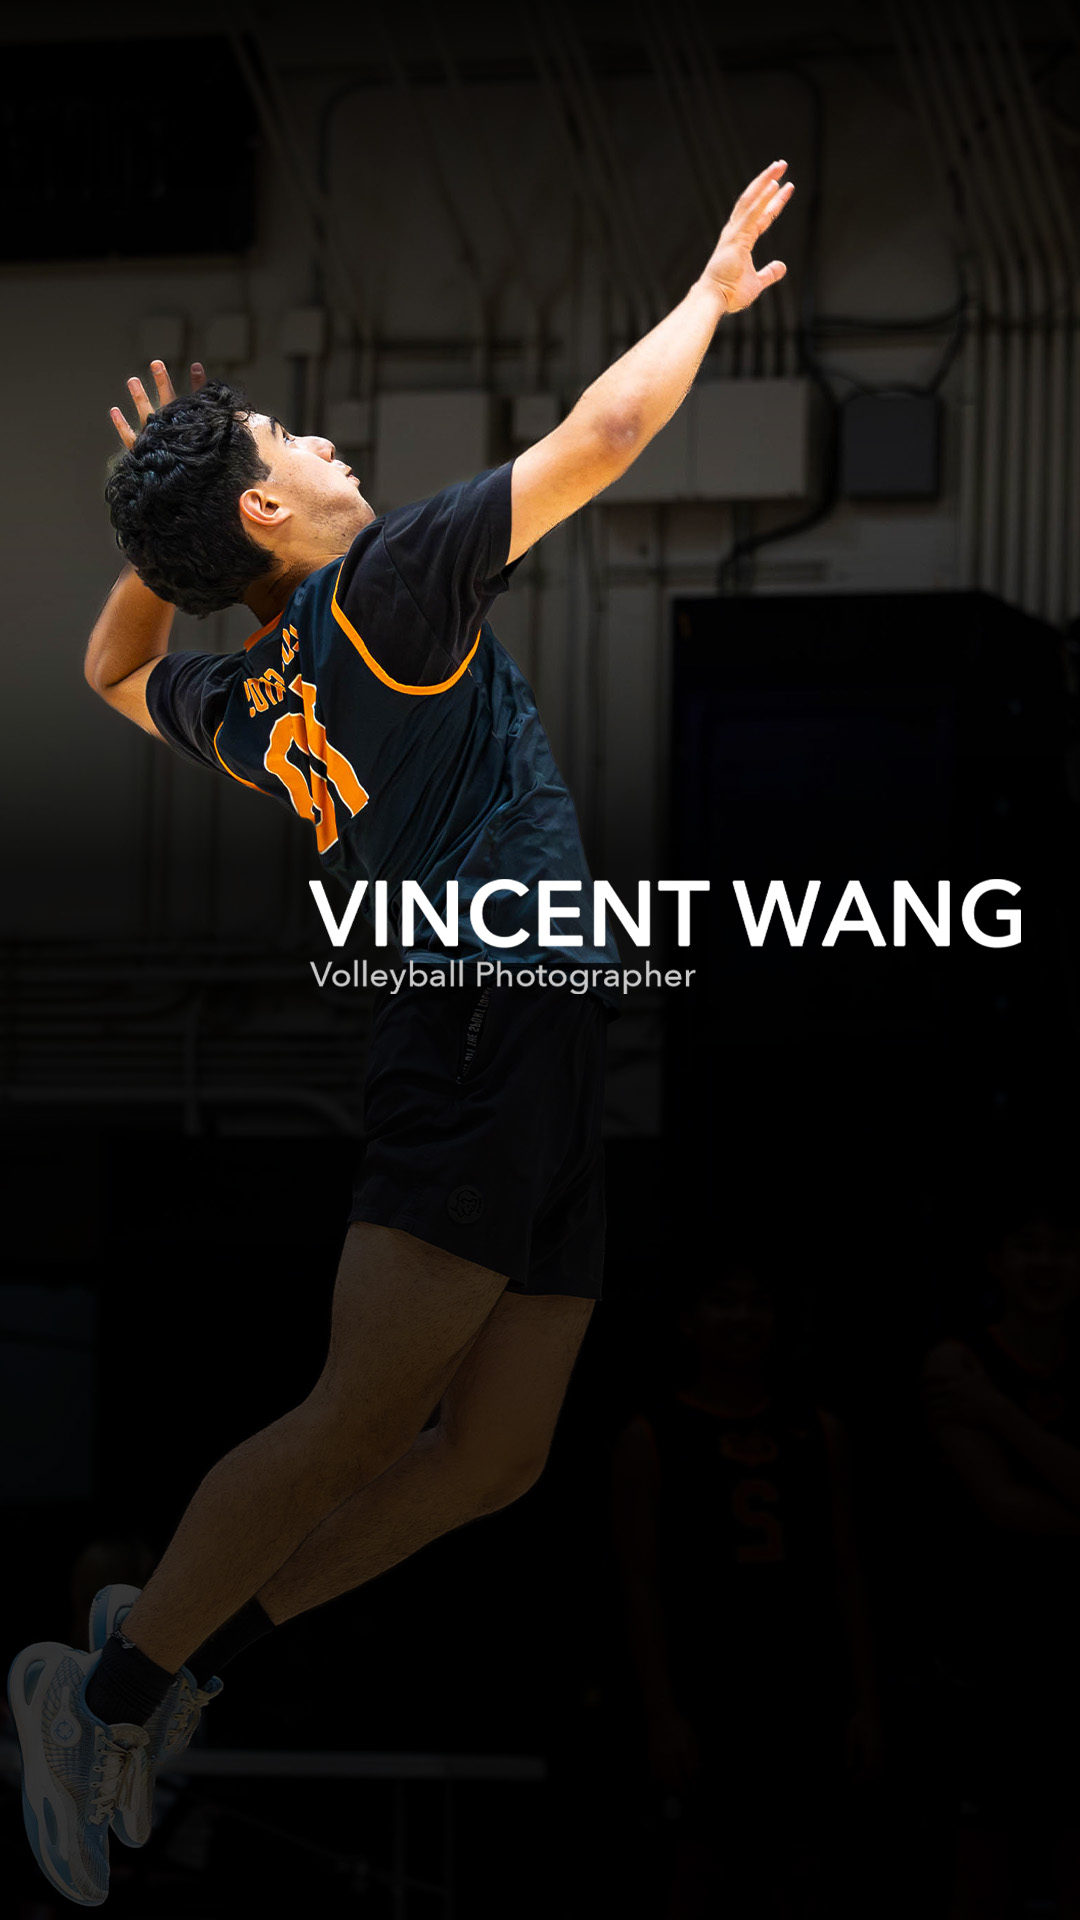
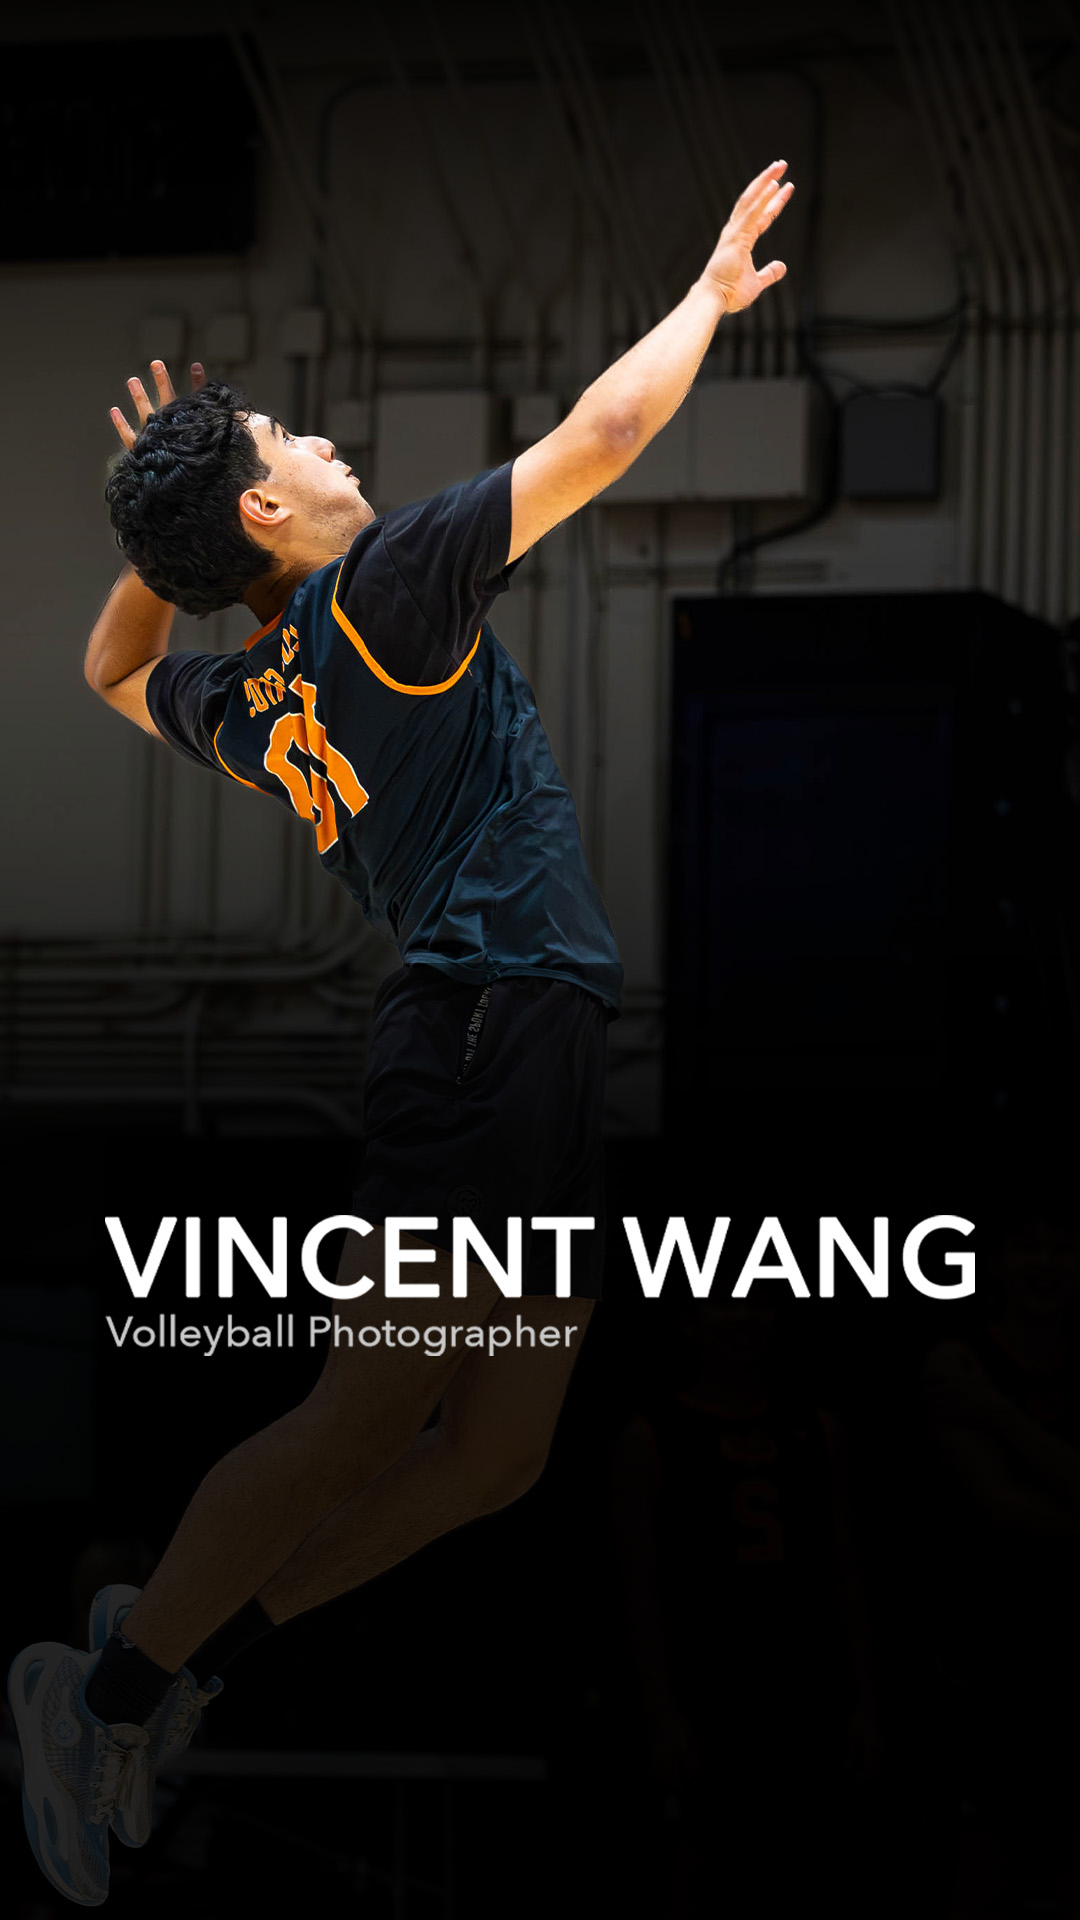
fix mobile hero

diff --git a/volleyball-photo.html b/volleyball-photo.html
@@ -6,7 +6,7 @@
       <title>VINCENT WANG | Volleyball Photography</title>
       <link rel="stylesheet" href="css/art_style.css" />
    </head>
-   <body>
+   <body class="volleyball-photo">
       <header class="site-header">
         <div class="logo" style="font-weight: 400; letter-spacing: 0.04em">VINCENT WANG</div>
 

diff --git a/css/art_style.css b/css/art_style.css
@@ -331,7 +331,7 @@ body {
 }
 
 @media (max-width: 600px) {
-  .hero img {
+  .hero {
     height: 55vh;
   }
 
@@ -339,6 +339,11 @@ body {
   .about,
   .hero {
     width: calc(100% - 24px);
+  }
+
+  .volleyball-photo .hero {
+    height: 90vh;
+    width: 100%;
   }
 
   .gallery {
